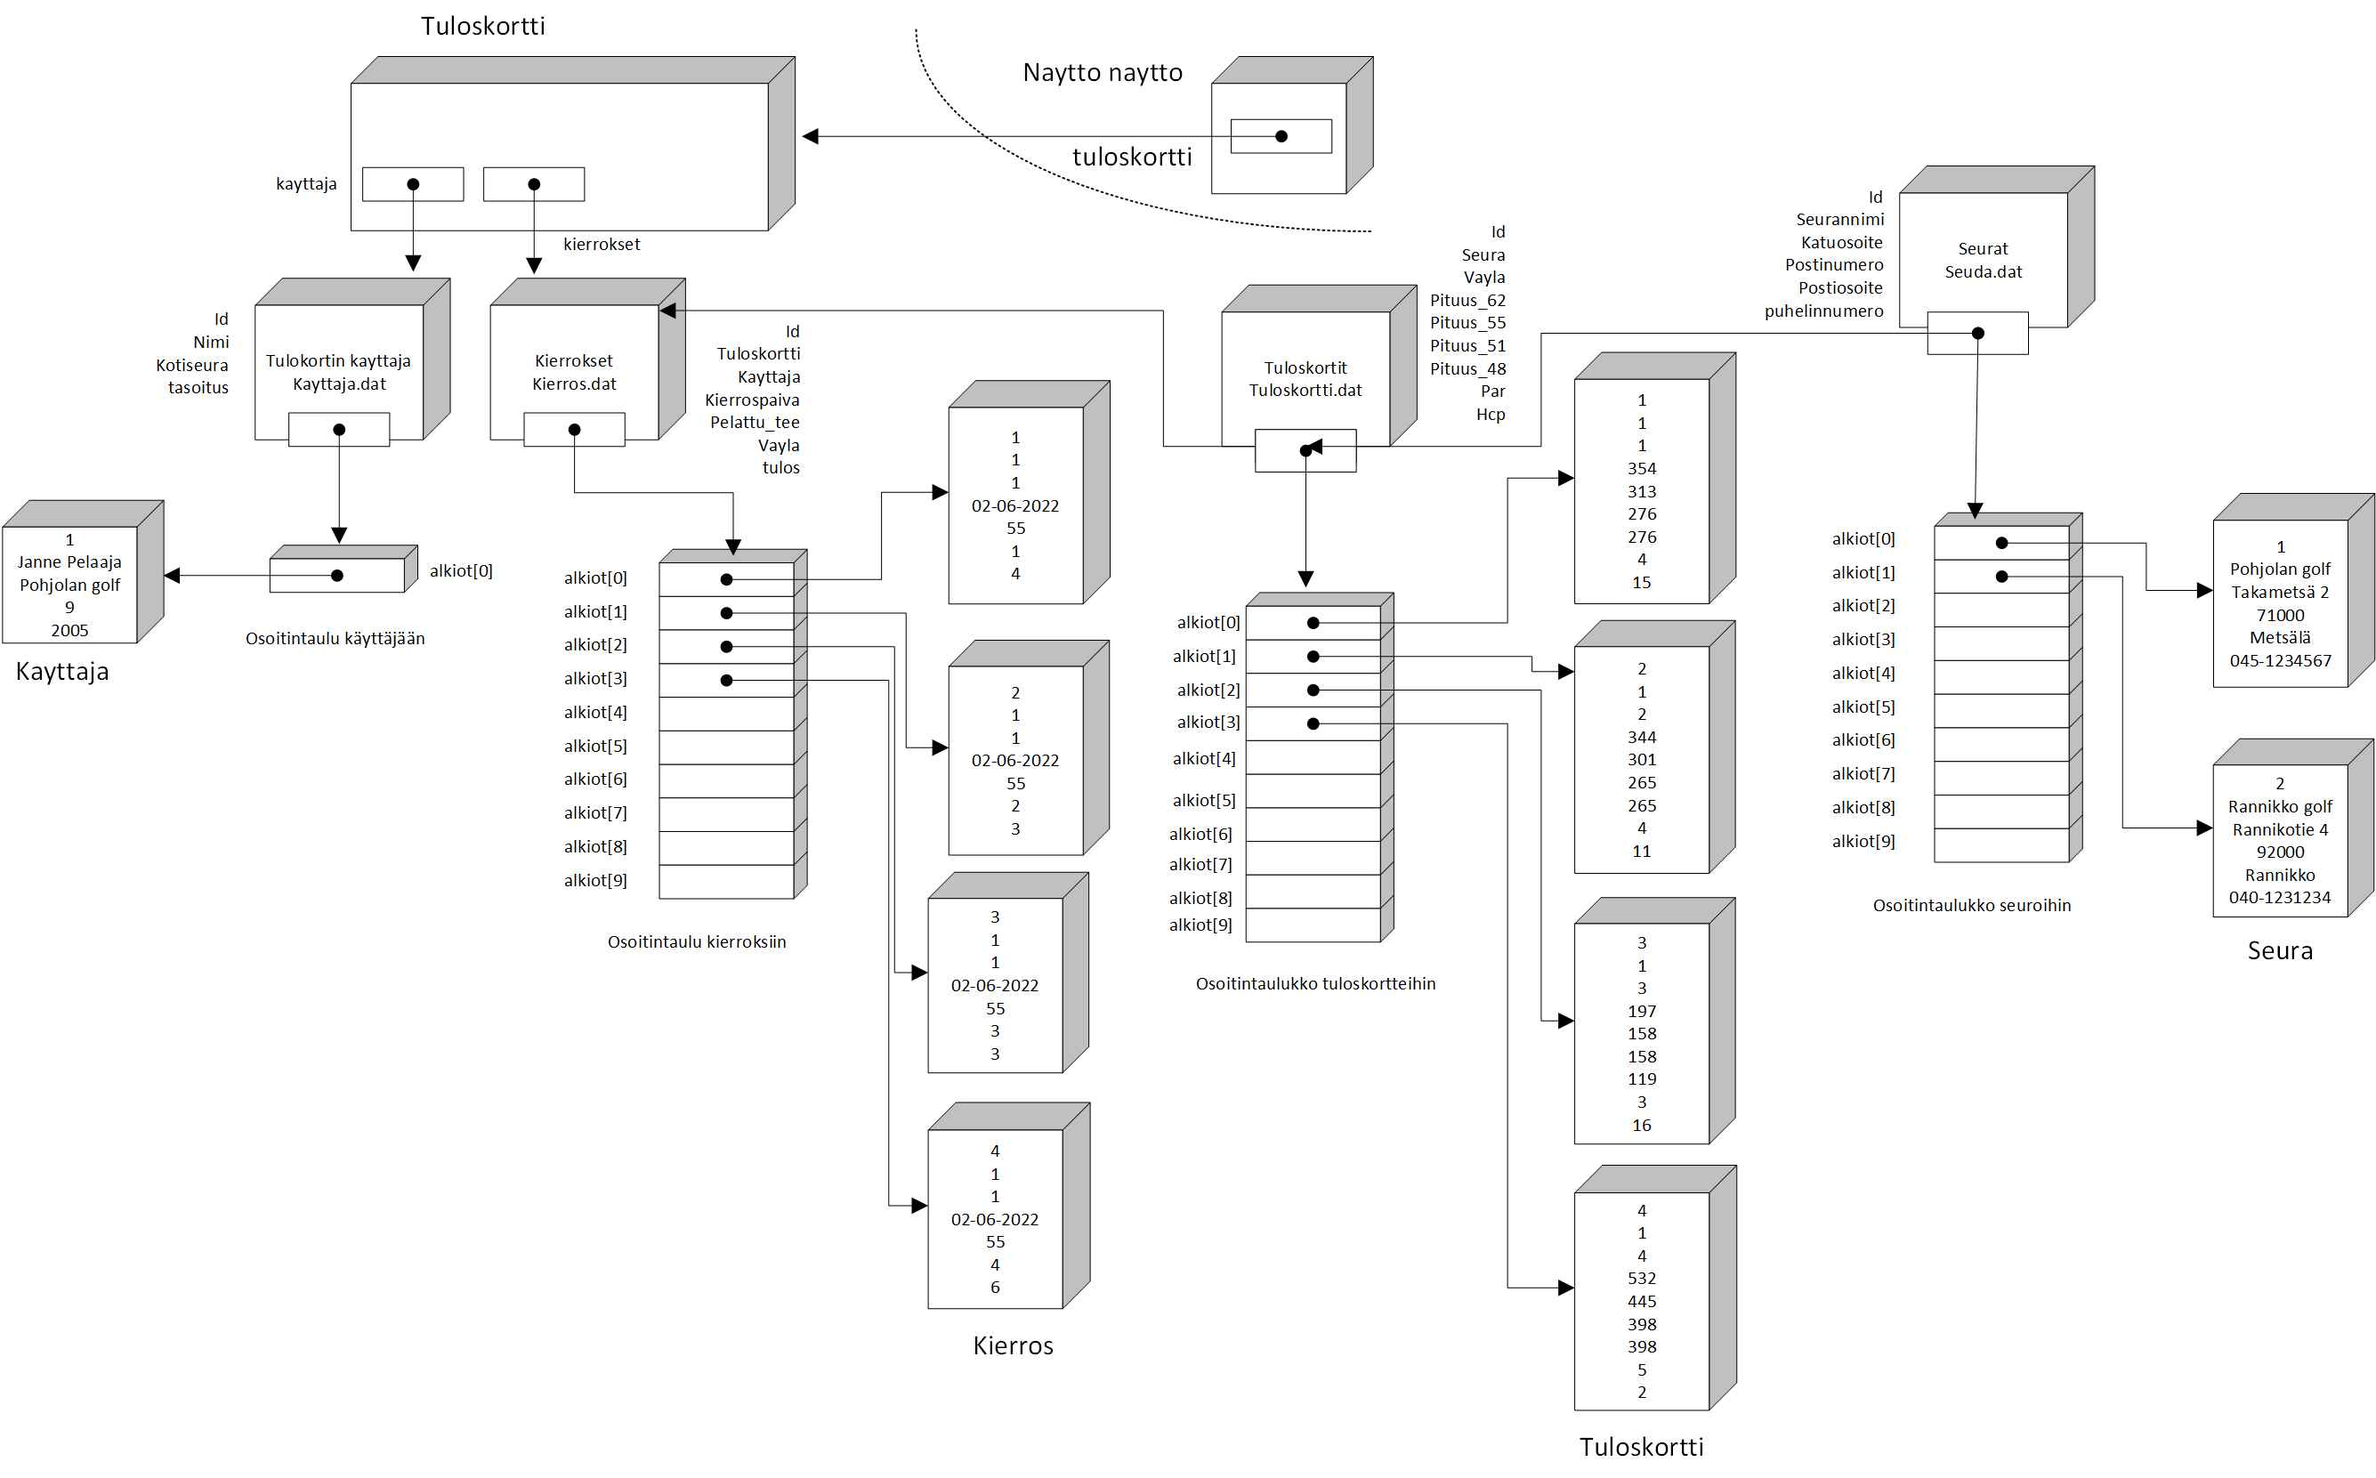
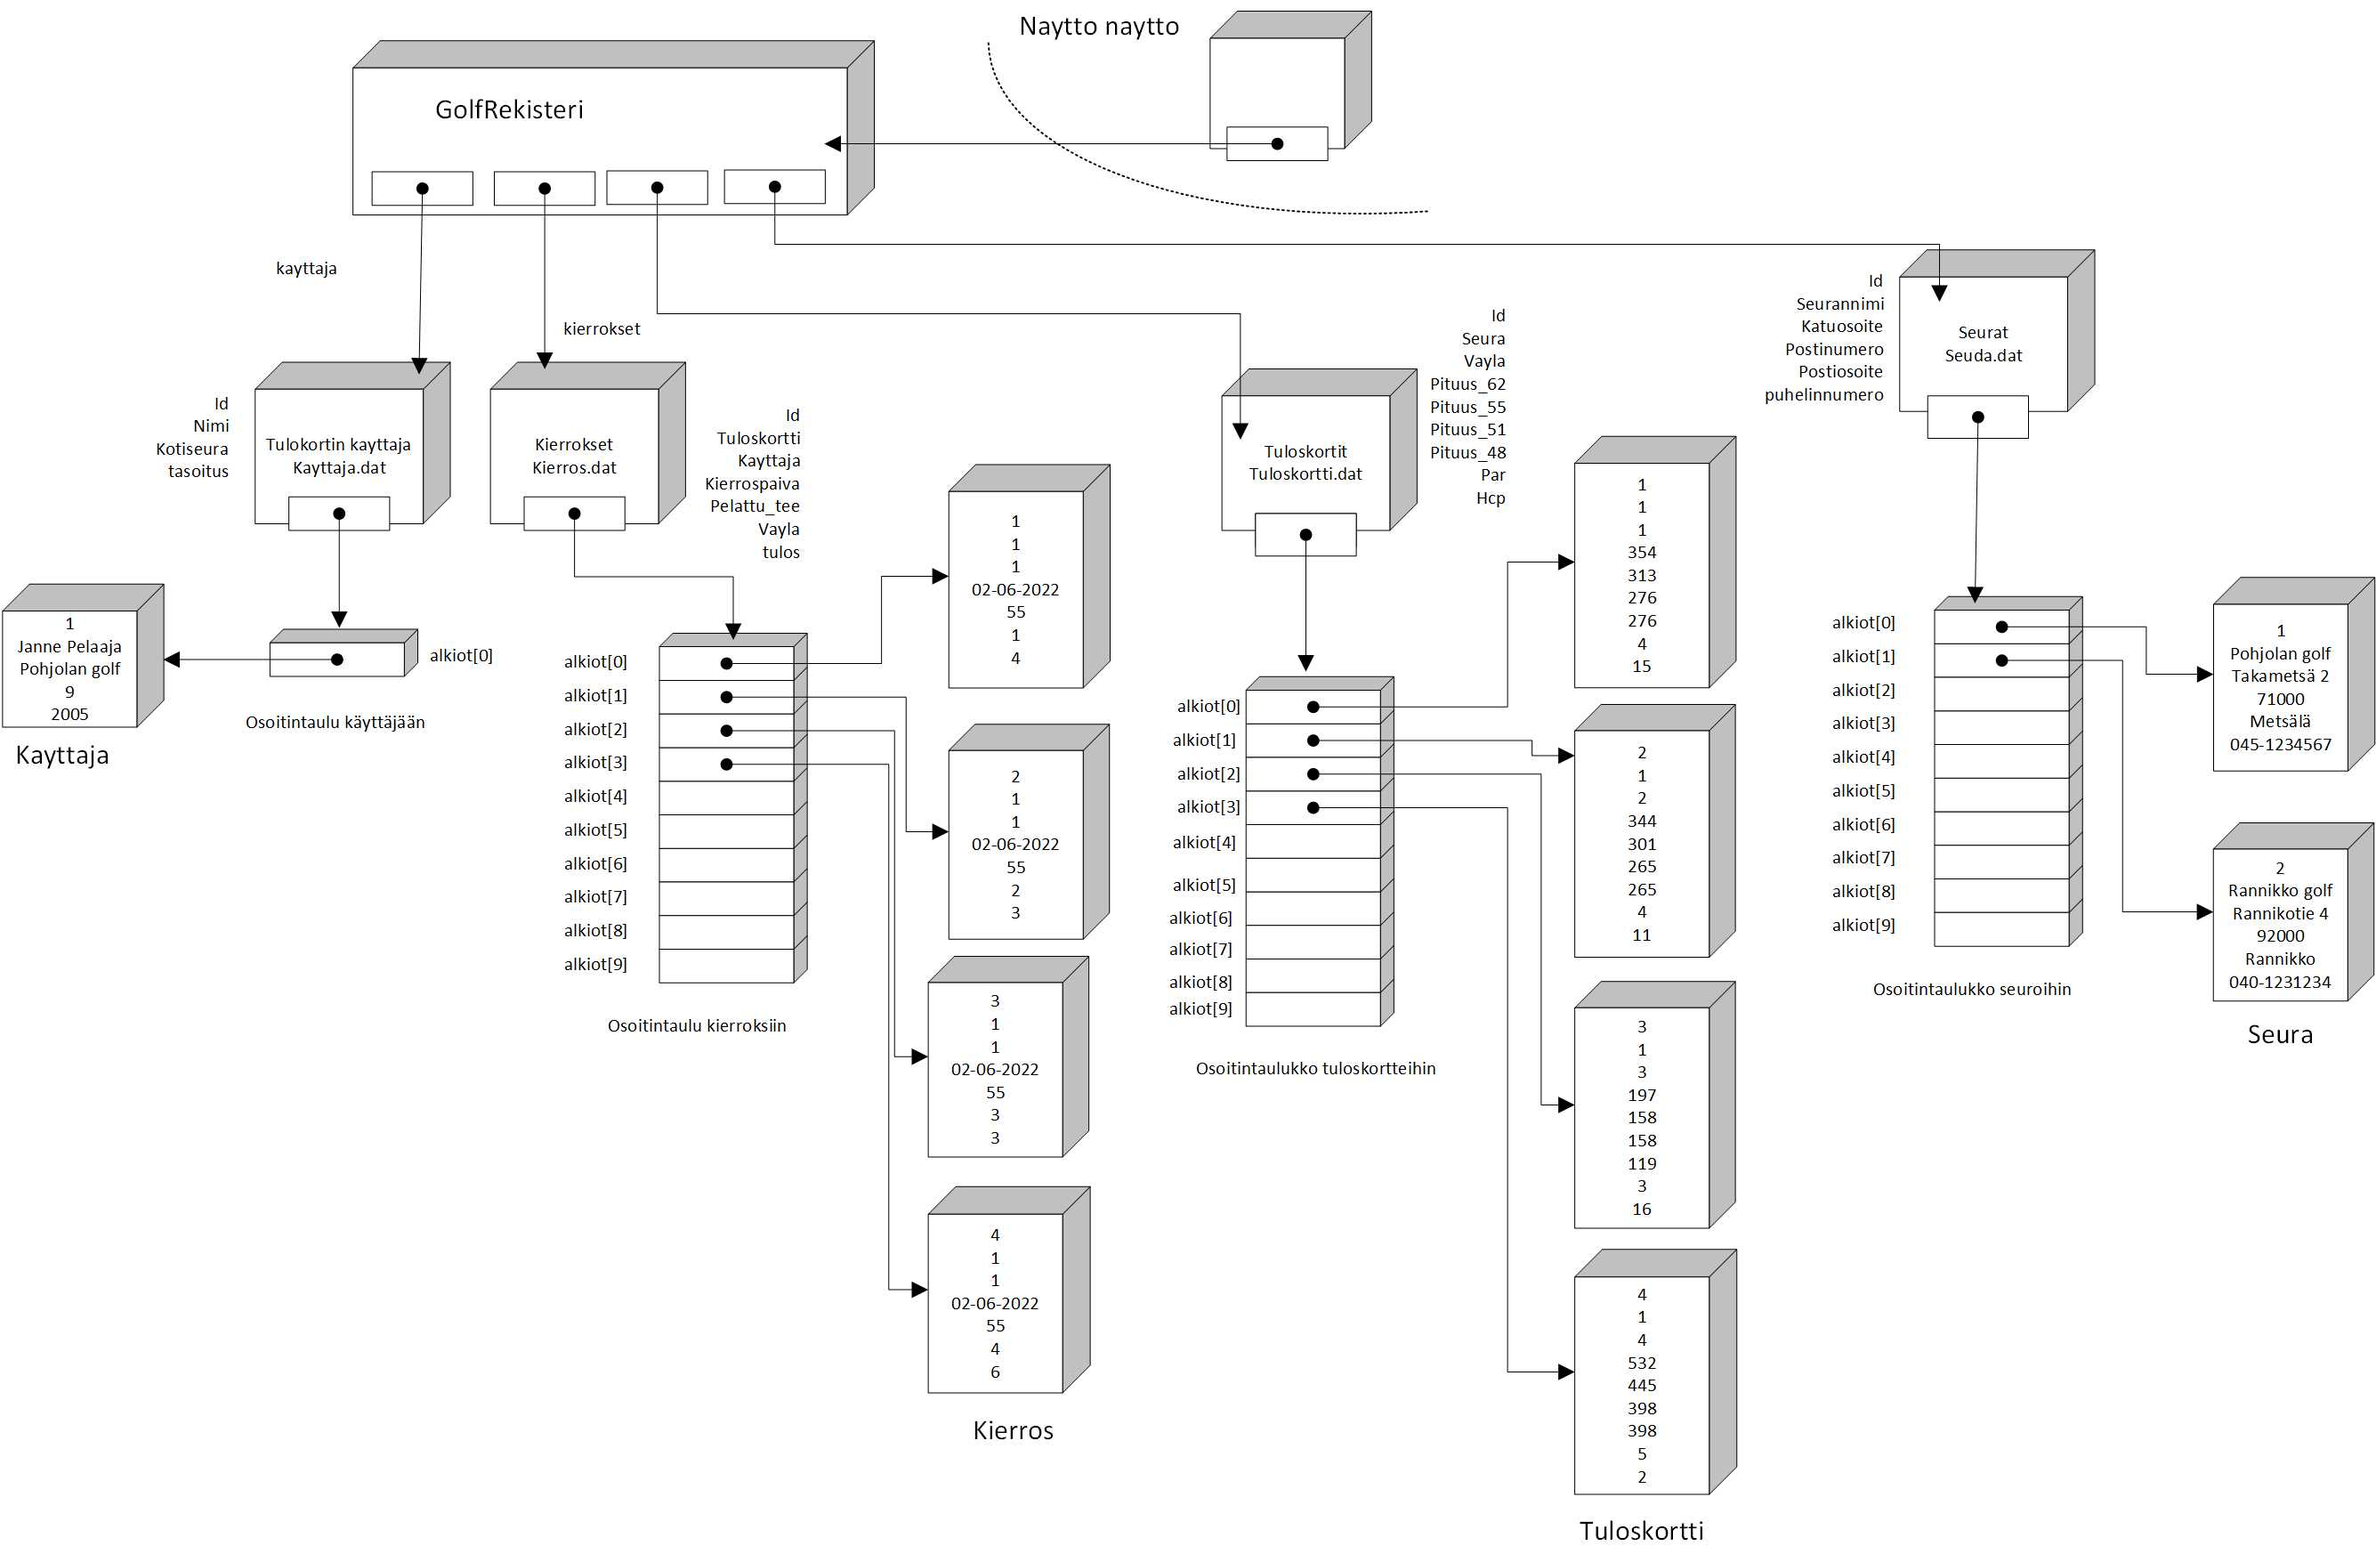
Tehty muutokset ohjauksen jälkeen tulleet muutostarpeet

diff --git a/CRC-kortit.md b/CRC-kortit.md
@@ -47,9 +47,9 @@
 +--------------------------------------+--------------------------------------+
 | Luokan nimi: Tulokortti              | Avustajat:                           |
 +--------------------------------------+--------------------------------------+
-| Vastuualueet:                        | - Seura                              |
+| Vastuualueet:                        |                                      |
 |                                      |                                      |
-| - Huolehtii tuloskorttien tiedoista  |                                      |
+| - Huolehtii tuloskortin tiedoista    |                                      |
 | - Ei tiedä käyttöliittymästä         |                                      |
 | - Tietää seuran kentät (id,          |                                      |
 |   seuran, vaylan, pituudet, par, hcp)|                                      |
@@ -69,8 +69,8 @@
 +--------------------------------------+--------------------------------------+
 | Luokan nimi: Kierros                 | Avustajat:                           |
 +--------------------------------------+--------------------------------------+
-| Vastuualueet:                        | - Tuloskortti                        |
-|                                      | - Kayttaja                           |
+| Vastuualueet:                        |                                      |
+|                                      |                                      |
 | - Huolehtii kierroksen tiedoista     |                                      |
 | - Ei tiedä käyttöliittymästä         |                                      |
 | - Tietää kierroksen kentät (id,      |                                      |
@@ -86,10 +86,10 @@
 +--------------------------------------+--------------------------------------+
 ```
 
-## OhjelmaTuloskortti-luokka (OhjelmaTulokortti)
+## GolfRekisteri-luokka (GolfRekisteri)
 ```
 +--------------------------------------+--------------------------------------+
-| Luokan nimi: OhjelmaTulokortti       | Avustajat:                           |
+| Luokan nimi: GolfRekisteri           | Avustajat:                           |
 +--------------------------------------+--------------------------------------+
 | Vastuualueet:                        | - Kayttaja                           |
 |                                      | - Seura                              |
@@ -97,9 +97,31 @@
 |   Tuloskortti ja Kierros -luokkien   | - Kierros                            |
 |   välisestä yhteistyöstä ja välittää |                                      |
 |   näitä tietoja pyydettäessä         |                                      |
-| - Lukee ja kirjoittaa                |                                      |
-|   OhjelmaTulokortti tiedostoon       |                                      |
-|   pyytämällä apua avustajiltaan      |                                      |
+|                                      |                                      |
+|                                      |                                      |
+|                                      |                                      |
+|                                      |                                      |
+|                                      |                                      |
+|                                      |                                      |
+|                                      |                                      |
+|                                      |                                      |
++--------------------------------------+--------------------------------------+
+```
+
+## Kayttajat-luokka (Kayttajat)
+```
++--------------------------------------+--------------------------------------+
+| Luokan nimi: Kayttajat               | Avustajat:                           |
++--------------------------------------+--------------------------------------+
+| Vastuualueet:                        | - Kayttaja                           |
+|                                      |                                      |
+| - Pitää yllä varsinaista kayttaja-   |                                      |
+|   rekisteriä, eli lisätä ja          |                                      |
+|   poistaa seuran                     |                                      |
+| - Osaa lukea ja kirjoittaa kayttaja  |                                      |
+|   tiedostoon                         |                                      |
+| - Osaa etsiä ja lajitella            |                                      |
+|                                      |                                      |
 |                                      |                                      |
 |                                      |                                      |
 |                                      |                                      |
@@ -135,9 +157,9 @@
 +--------------------------------------+--------------------------------------+
 | Luokan nimi: Tuloskortit             | Avustajat:                           |
 +--------------------------------------+--------------------------------------+
-| Vastuualueet:                        | - Seura                              |
-|                                      | - Tuloskortti                        |
-| - Pitää yllä varsinaista tuloskortti-| - Seurat                             |
+| Vastuualueet:                        | - Tuloskortti                        |
+|                                      |                                      |
+| - Pitää yllä varsinaista tuloskortti-|                                      |
 |   rekisteriä, eli lisätä ja          |                                      |
 |   poistaa tuloskortin                |                                      |
 | - Osaa lukea ja kirjoittaa tulos-    |                                      |
@@ -157,9 +179,9 @@
 +--------------------------------------+--------------------------------------+
 | Luokan nimi: Kierrokset              | Avustajat:                           |
 +--------------------------------------+--------------------------------------+
-| Vastuualueet:                        | - Kayttaja                           |
-|                                      | - Tuloskortti                        |
-| - Pitää yllä varsinaista kierrokset- | - Tuloskortit                        |
+| Vastuualueet:                        | - Kierrokset                         |
+|                                      |                                      |
+| - Pitää yllä varsinaista kierrokset- |                                      |
 |   rekisteriä, eli lisätä ja          |                                      |
 |   poistaa kierroksen                 |                                      |
 | - Osaa lukea ja kirjoittaa kierros   |                                      |
@@ -179,7 +201,7 @@
 +--------------------------------------+--------------------------------------+
 | Luokan nimi: Naytto                  | Avustajat:                           |
 +--------------------------------------+--------------------------------------+
-| Vastuualueet:                        | - OhjelmaTuloskortti                 |
+| Vastuualueet:                        | - GolfRekisteri                      |
 |                                      | - Kayttaja                           |
 | - Hoitaa kaiken näyttöön tulevan     | - Seura                              |
 |   tekstin                            | - Tuloskortti                        |
